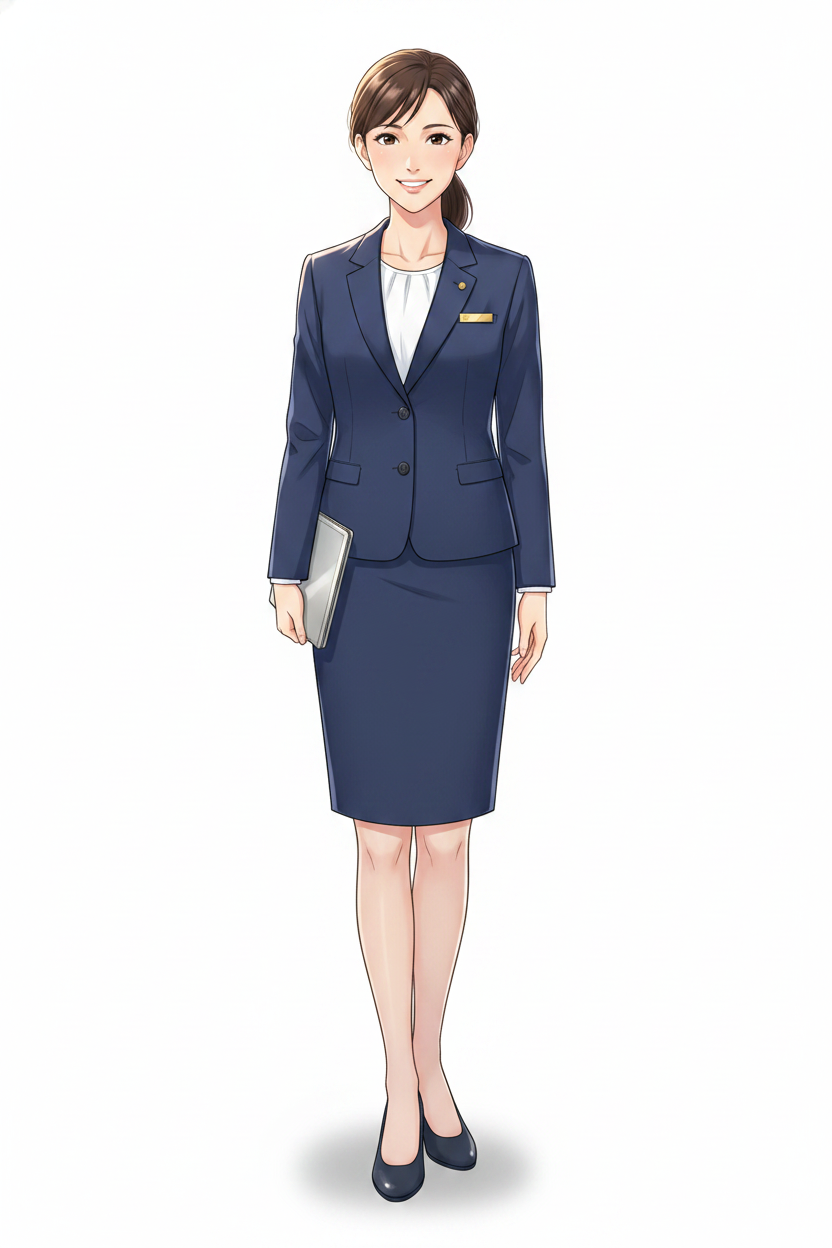
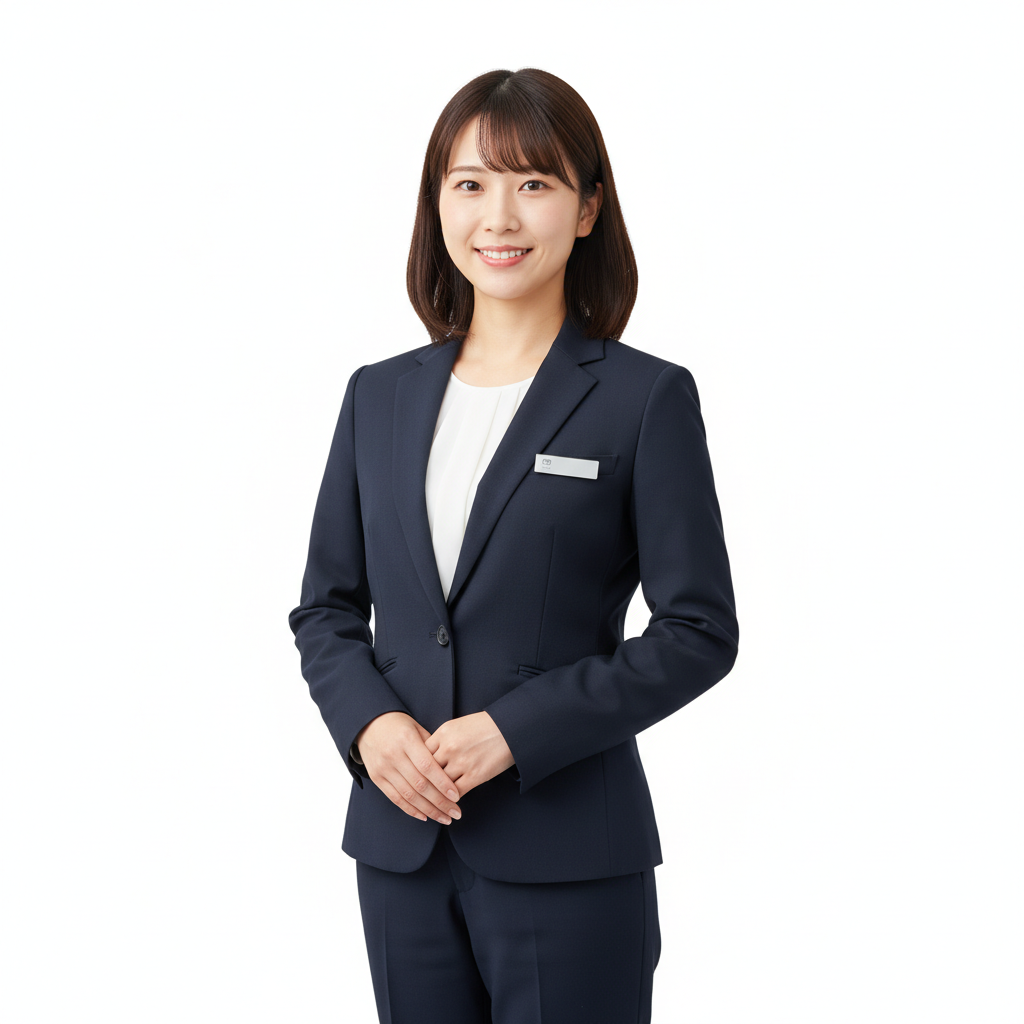
feat(lobby): 葵を実写風に再生成 + 位置/クリップを元に戻す
ユーザーフィードバック「描画の内容です。位置ではありません」を反映:
- 位置/クリップ: 元に戻す
  · LOBBY 葵: (744,519), clip=true, FIG_H=360
  · WELLNESS_ROOM アドバイザー: (420,500), clip=false, FIG_H=440
- 葵のキャラクター画像のみ実写風に再生成
  · 旧: アニメ/漫画調
  · 新: ネイビースーツ姿の実写風 (アドバイザーと統一感)
- gen_aoi_realistic.js を新規追加 (再生成スクリプト)

Changed region(s): [[0.2812, 0.0312, 0.7188, 1.0]]

diff --git a/server/scripts/gen_aoi_realistic.js b/server/scripts/gen_aoi_realistic.js
@@ -1,0 +1,56 @@
+// 受付AI 葵 を実写風に再生成 (旧:漫画調アニメ → 新:ヘルスアドバイザーと同じ実写トーン)
+require('dotenv').config({ path: '/opt/cohub/.env' });
+const fs = require('fs');
+const apiKey = process.env.GEMINI_API_KEY;
+if (!apiKey) { console.error('GEMINI_API_KEY未設定'); process.exit(1); }
+
+const OUT = '/opt/cohub/public/assets/concierge_aoi_full.png';
+
+const PROMPT = `**運送会社の受付係 葵 (Aoi)** のキャラクター立ち姿を生成してください。
+
+【キャラクター】
+- 20代後半の親しみやすい印象の女性 (アジア系)
+- 黒〜ダークブラウンのセミロングヘア (肩より少し下)
+- **薄いネイビーまたはダークグレーのビジネススーツ**(ジャケット+スカートまたはパンツ)
+- 白のシャツまたはブラウス
+- 名札は無地 (固有名は描かない)
+- 表情: にこやかで丁寧、明るく親しみやすい受付係らしい雰囲気
+- ポーズ: 正面向きで両手を体の前で軽く重ねる、または片手を軽く前に向ける案内ポーズ
+
+【スタイル — ヘルスアドバイザー画像と統一】
+- **リアル写真調** (アニメ・漫画・Pixar調ではない、実写ベースの写真風レンダリング)
+- 全身が入る縦長構図 (頭から足まで、背景は**完全に白 #FFFFFF**)
+- 自然な肌の質感、立体感のある陰影
+- 立ち姿の影は最小限
+
+【重要】
+- 背景は**真っ白(無地)**にしてください (後でクライアント側で透過処理します)
+- キャラクター以外の物体(机、椅子、受付カウンター等)を入れない
+- 顔は具体的すぎない、誰にでも親しみやすい平均的な造形
+- アニメ・漫画・イラスト風は禁止 (リアルな写真風で)`;
+
+async function geminiImage(prompt) {
+  const url = 'https://generativelanguage.googleapis.com/v1beta/models/gemini-2.5-flash-image:generateContent?key=' + apiKey;
+  const body = {
+    contents: [{ parts: [{ text: prompt }] }],
+    generationConfig: { responseModalities: ['IMAGE', 'TEXT'], temperature: 0.85 },
+  };
+  console.log('Gemini に葵(実写風)生成リクエスト送信中…');
+  const resp = await fetch(url, { method: 'POST', headers: { 'Content-Type': 'application/json' }, body: JSON.stringify(body) });
+  if (!resp.ok) throw new Error('API ' + resp.status + ': ' + (await resp.text()).slice(0, 300));
+  const data = await resp.json();
+  const parts = data.candidates && data.candidates[0] && data.candidates[0].content && data.candidates[0].content.parts;
+  if (!parts) throw new Error('応答にcontent.partsなし');
+  for (const p of parts) {
+    const inline = p.inlineData || p.inline_data;
+    if (inline && inline.data) return Buffer.from(inline.data, 'base64');
+    if (p.text) console.log('[text]', p.text.slice(0, 200));
+  }
+  throw new Error('画像が返ってきませんでした');
+}
+
+(async () => {
+  if (fs.existsSync(OUT)) fs.copyFileSync(OUT, OUT + '.bak.' + Date.now());
+  fs.writeFileSync(OUT, await geminiImage(PROMPT));
+  console.log('✅ 葵(実写風)生成完了:', OUT);
+})().catch(e => { console.error(e); process.exit(2); });

diff --git a/public/index.html b/public/index.html
@@ -2587,11 +2587,13 @@ function render() {
   // 1Fロビー (一人称視点モード) — 葵だけ受付に固定、一般ユーザーは自由に移動可
   // 一人称視点フロア: ロビー(葵)・健康管理室(ヘルスアドバイザー) 共通の固定配置
   const isLobbyView = currentFloor && (currentFloor.code === 'lobby' || currentFloor.code === 'wellness_room');
-  // 一人称視点フロアの常駐bot — 統一仕様: 全身立ち姿、左寄り、縮尺合わせ
+  // 一人称視点フロアの常駐bot
+  // 葵は受付カウンター越しに頭胸のみ (clip=true)、ヘルスアドバイザーは全身立ち姿
   const FIRST_PERSON_BOT = {
-    'lobby':         { uid: 'bot_aoi',    x: 420, y: 500, clip: false },
+    'lobby':         { uid: 'bot_aoi',    x: 744, y: 519, clip: true  },
     'wellness_room': { uid: 'bot_health', x: 420, y: 500, clip: false },
   };
+  const LOBBY_COUNTER_TOP_Y = 465;
 
   // 補間: targets → users[uid].cx/cy に近づける (ease-out、ゴール付近スナップで発振防止)
   for (const uid in targets) {
@@ -2895,10 +2897,12 @@ function drawFloorEntrance(x, y, floorCode) {
 function drawConciergeStanding(u) {
   const standing = botStandingImages[u.uid] || conciergeFull;
   // フロア別サイズ:
-  //  一人称視点フロア (ロビー / 健康管理室) = 440 (全身立ち姿、部屋の縮尺と合わせる)
+  //  ロビー葵 = 360 (受付越しに頭胸のみ、クリップで腰下隠し)
+  //  健康管理室 = 440 (全身立ち姿、部屋の縮尺合わせ)
   //  他フロア = 210 (従来)
-  const _isFP = currentFloor && (currentFloor.code === 'lobby' || currentFloor.code === 'wellness_room');
-  const FIG_H = _isFP ? 440 : 210;
+  let FIG_H = 210;
+  if (currentFloor && currentFloor.code === 'lobby') FIG_H = 360;
+  else if (currentFloor && currentFloor.code === 'wellness_room') FIG_H = 440;
   const aspect = standing.w / standing.h;
   const FIG_W = Math.round(FIG_H * aspect);
   // shake 演出
@@ -2913,7 +2917,12 @@ function drawConciergeStanding(u) {
   const headY = feetY - FIG_H;
   ctx.save();
   if (u.opacity != null && u.opacity < 1) ctx.globalAlpha = u.opacity;
-  // 葵もヘルスアドバイザーと同じ全身立ち姿に統一 (クリップ廃止)
+  // ロビーの葵は受付カウンター越しに見えるようクリップ
+  if (currentFloor && currentFloor.code === 'lobby') {
+    ctx.beginPath();
+    ctx.rect(0, 0, WORLD_W, 465);
+    ctx.clip();
+  }
   // 足元の楕円影 (ロビーではクリップで自動的に隠れる)
   ctx.save();
   ctx.fillStyle = 'rgba(15,23,42,0.22)';
